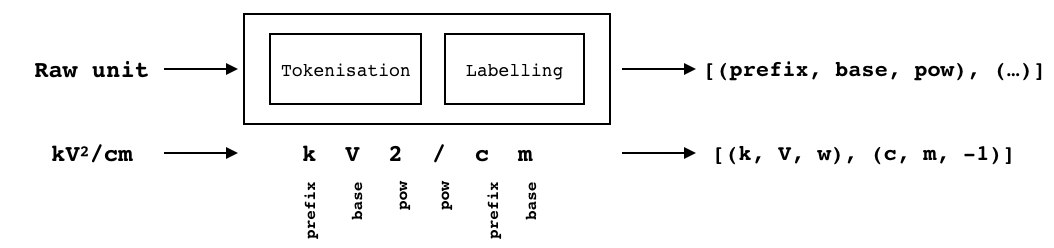
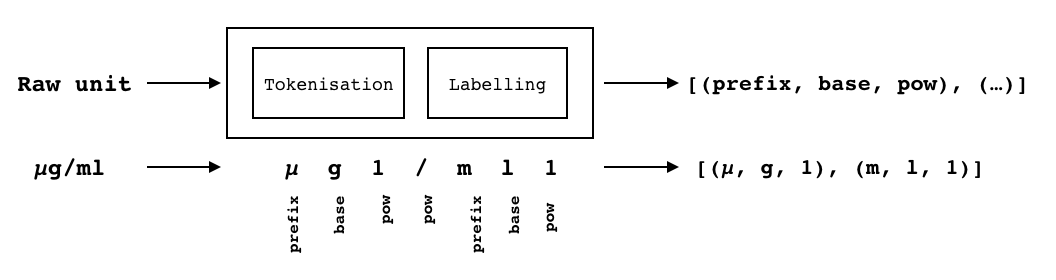
Fix typo

diff --git a/main.tex b/main.tex
@@ -79,7 +79,7 @@ Currently, there are no comparable results in scientific literature because no p
 Our approach for the unit representation follows the International System of Measurement (SI), where each unit is represented as a product of triples: \textit{prefix}, \textit{base} and \textit{power}. This straightforward approach offers the flexibility to support any combination of units from any system of measurements. 
 %For example \texttt{kV/cm\textsuperscript{2}}, corresponds to \texttt{$kV\cdot cm\textsuperscript{-2}$} and becomes \texttt{[(k, V, 1), (c, m, -2)]} as product of triples. 
 %The example previously illustrated is then encoded in XML as \texttt{\small{<unit><prefix>k</prefix><base>V</base> <pow>\char`/</pow><prefix>c</prefix><base>m</base><pow>2<pow></unit>}}.  
-Figure~\ref{fig:dataset example} illustrates an example where \texttt{kV\textsuperscript{2}/cm} is tokenised and segmented as product of triples.
+Figure~\ref{fig:dataset example} illustrates an example where \texttt{µg/ml} is tokenised and segmented as product of triples.
 \begin{figure}[h]
     \centering
     % \includegraphics[width=0.9\textwidth,natwidth=575,natheight=101]{sample-corpus.png}
